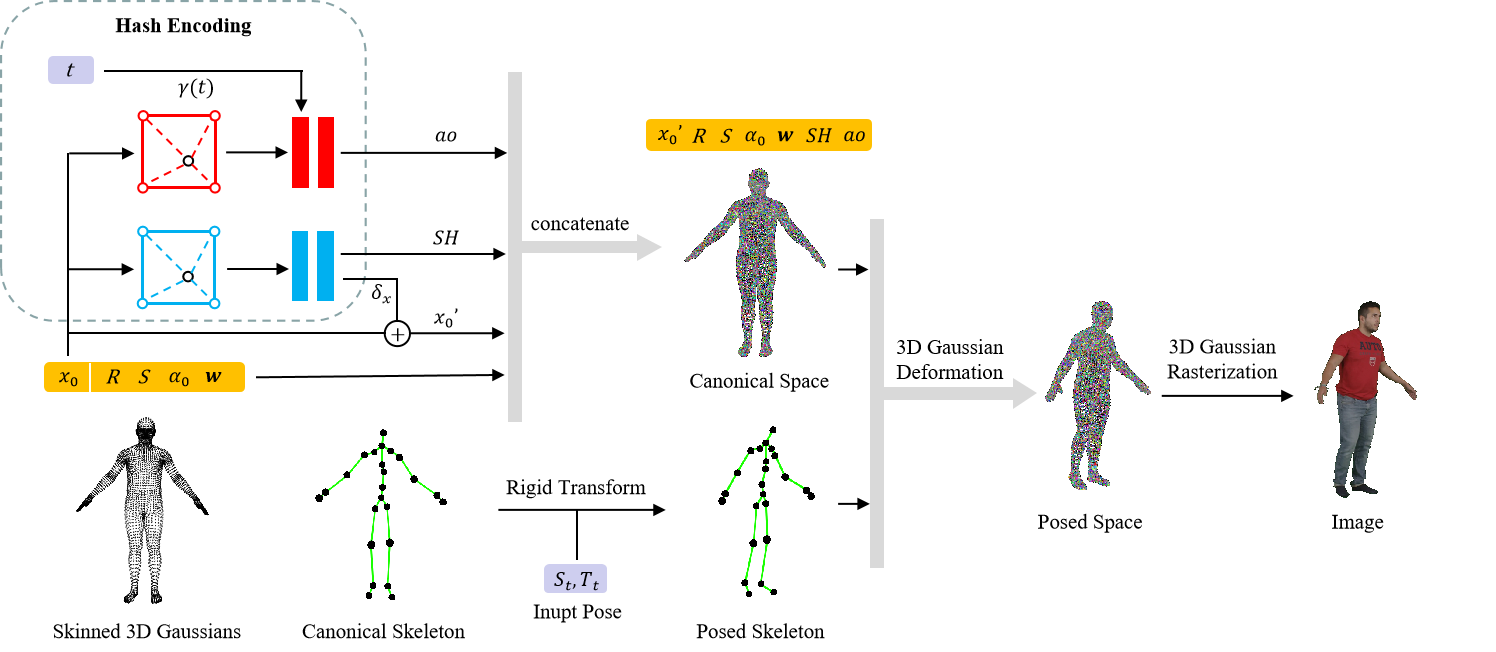
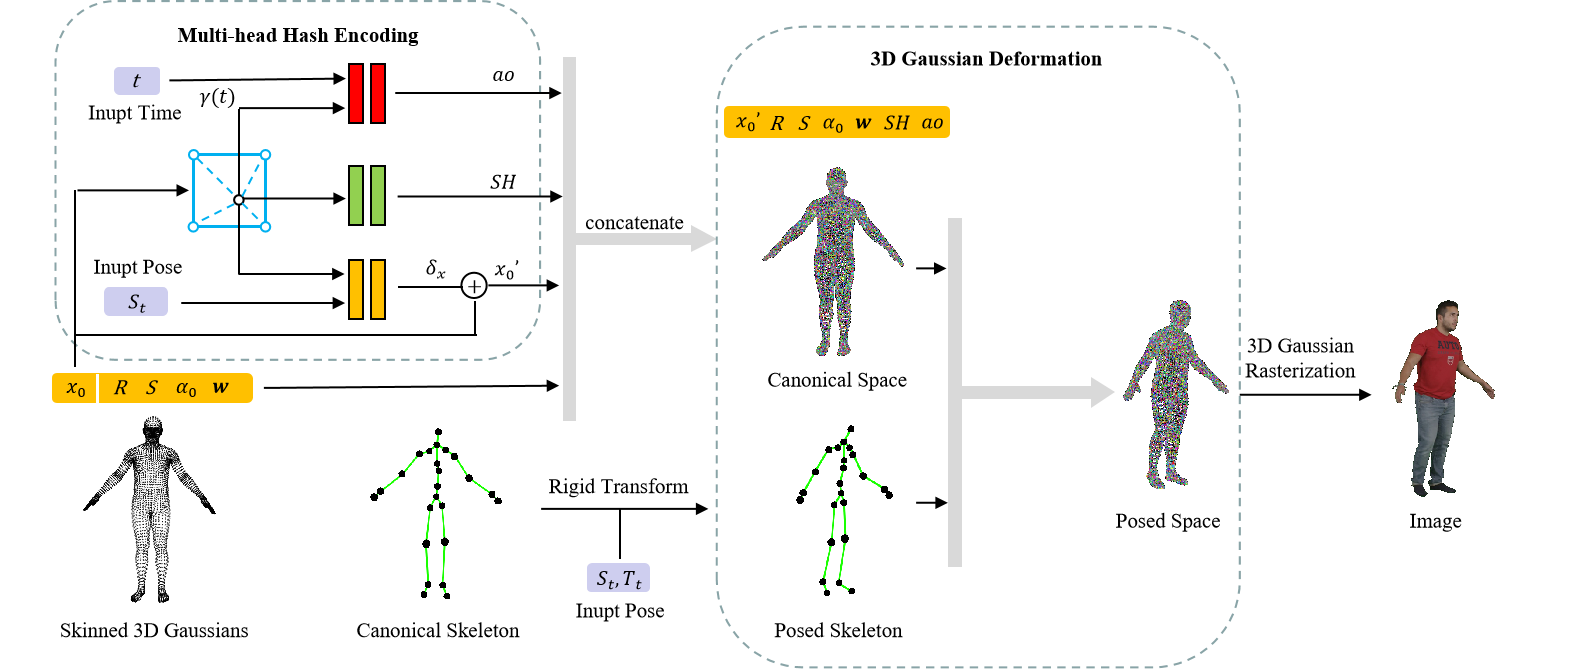
update

diff --git a/index.html b/index.html
@@ -68,16 +68,6 @@
                     <span>Paper</span>
                   </a>
                 </span>
-                <!-- Video Link. -->
-                <span class="link-block">
-                  <a href="https://www.youtube.com/watch?v=fBkvl-oWrVc"
-                    class="external-link button is-normal is-rounded is-dark">
-                    <span class="icon">
-                      <i class="fab fa-youtube"></i>
-                    </span>
-                    <span>Video</span>
-                  </a>
-                </span>
                 <!-- Code Link. -->
                 <span class="link-block">
                   <a href="https://github.com/jimmyYliu/Animatable-3d-Gaussian"
@@ -116,32 +106,22 @@
           <h2 class="title is-3">Abstract</h2>
           <div class="content has-text-justified">
             <p>Neural radiance fields are capable of reconstructing high-quality drivable human avatars but are
-              expensive to train and render. To reduce consumption, we propose Animatable 3D Gaussian, which learns
-              human avatars from input images and poses. We extend 3D Gaussians to dynamic human scenes by modeling a
-              set of skinned 3D Gaussians and a corresponding skeleton in canonical space and deforming 3D Gaussians to
-              posed space according to the input poses. We introduce hash-encoded shape and appearance to speed up
-              training and propose time-dependent ambient occlusion to achieve high-quality reconstructions in scenes
-              containing complex motions and dynamic shadows. On both novel view synthesis and novel pose synthesis
-              tasks, our method outperforms existing methods in terms of training time, rendering speed, and
-              reconstruction quality. Our method can be easily extended to multi-human scenes and achieve comparable
-              novel view synthesis results on a scene with ten people in only 25 seconds of training.
+              expensive to train and render and not suitable for multi-human scenes with complex shadows. To reduce
+              consumption, we propose Animatable 3D Gaussian, which learns human avatars from input images and poses. We
+              extend 3D Gaussians to dynamic human scenes by modeling a set of skinned 3D Gaussians and a corresponding
+              skeleton in canonical space and deforming 3D Gaussians to posed space according to the input poses. We
+              introduce a multi-head hash encoder for pose-dependent shape and appearance and a time-dependent ambient
+              occlusion module to achieve high-quality reconstructions in scenes containing complex motions and dynamic
+              shadows. On both novel view synthesis and novel pose synthesis tasks, our method achieves higher
+              reconstruction quality than InstantAvatar with less training time (1/60), less GPU memory (1/4), and
+              faster rendering speed (7x). Our method can be easily extended to multi-human scenes and achieve
+              comparable novel view synthesis results on a scene with ten people in only 25 seconds of training.
             </p>
           </div>
         </div>
       </div>
       <!--/ Abstract. -->
 
-      <!-- Paper video. -->
-      <div class="columns is-centered has-text-centered">
-        <div class="column is-four-fifths">
-          <h2 class="title is-3">Video</h2>
-          <div class="publication-video">
-            <iframe src="https://www.youtube.com/embed/fBkvl-oWrVc" title="YouTube video player" frameborder="0"
-              allow="accelerometer; autoplay; clipboard-write; encrypted-media; gyroscope; picture-in-picture"
-              allowfullscreen></iframe>
-          </div>
-        </div>
-      </div>
     </div>
   </section>
 
